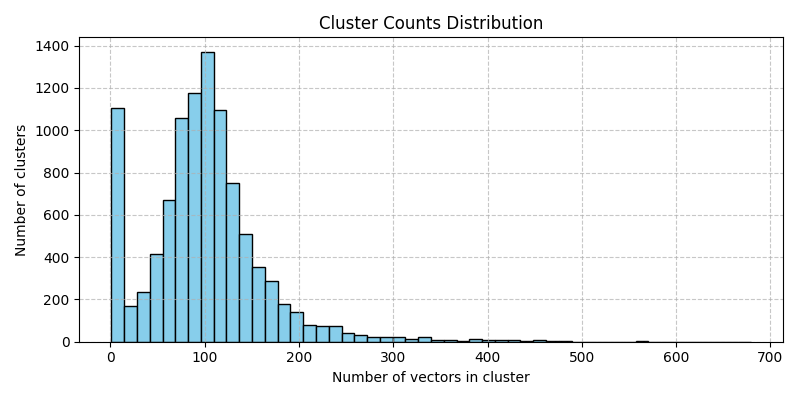
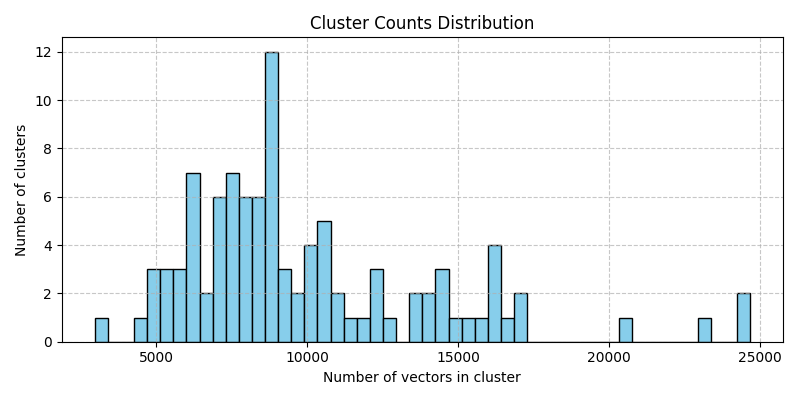
默认聚类使用minibatch

diff --git a/ann_benchmarks/algorithms/ivf_tensor/module.py b/ann_benchmarks/algorithms/ivf_tensor/module.py
@@ -43,7 +43,7 @@ class IVFTensor(BaseANN):
         self._metric = metric
         self._n_lists = method_param.get('n_lists', None)  # Will be set in fit()
         self._kmeans_iters = method_param.get('kmeans_iters', 20)
-        self._use_minibatch = method_param.get('use_minibatch', False)
+        self._use_minibatch = True # 默认使用minibatch
         self._batch_size = method_param.get('batch_size', None)  # 在 config.yml 的 arg_groups 中配置
         self._n_probes = 1  # Default, will be set via set_query_arguments
         
